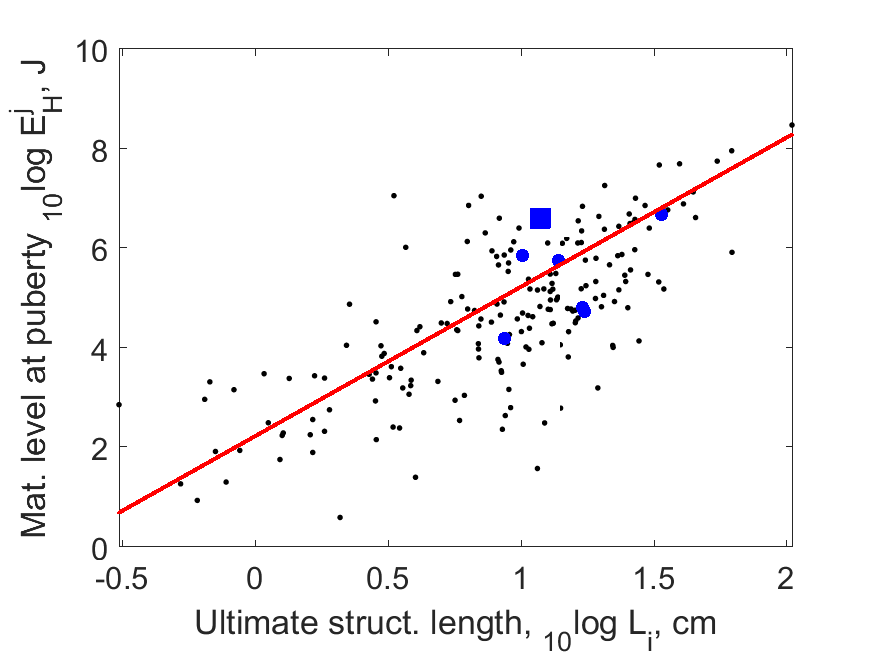
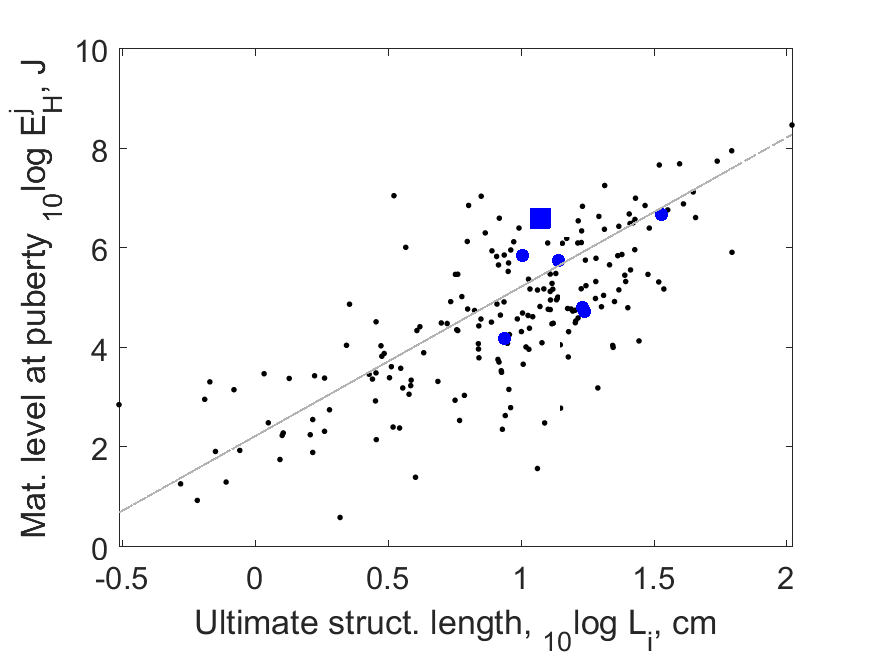
pars_comparisons_RBT
figures are generated with grey line

diff --git a/pars_comparisons_RBT.m b/pars_comparisons_RBT.m
@@ -45,7 +45,6 @@ plot(log10(Wd_i(selB)), log10(JT_Oi(selB)),   'bo', 'markersize',6,'markerfaceco
 plot(log10(Wd_i(selT)), log10(JT_Oi(selT)),'bs', 'markersize',12,'markerfacecolor','b')
 xlabel('Max ultimate dry weight, _{10}log Wd_i, g')
 ylabel('Max respiration, _{10}log J_{Oi} mol/d')
-% xlim([min(log10(p_M(selMollusca))) max(log10(p_M(selMollusca)))]  )
 set(gca, 'FontSize', 15, 'Box', 'on')
 saveas(gca,'figs/Wdi_JTOi.png')
 
@@ -54,20 +53,16 @@ saveas(gca,'figs/Wdi_JTOi.png')
 figure(); hold on
 plot(log10(Wd_i(selM)), log10(JT_Oi(selM)./ Wd_i(selM)), 'k.', 'markersize',8)
 plot(log10(Wd_i(selB)), log10(JT_Oi(selB)./ Wd_i(selB)), 'bo', 'markersize',6,'markerfacecolor','b')
-% plot(log10(Wd_i(selA)), log10(JT_Oi(selA)./ Wd_i(selA)),   'gs', 'markersize',12,'markerfacecolor','g')
 plot(log10(Wd_i(selT)), log10(JT_Oi(selT)./ Wd_i(selT)),'bs', 'markersize',12,'markerfacecolor','b')
 xlabel('ultimate dry weight, _{10}log Wd_i, g')
 ylabel('max spec. O_2, _{10}log J_{Oi} mol/g.d')
-% xlim([min(log10(p_M(selMollusca))) max(log10(p_M(selMollusca)))]  )
 set(gca, 'FontSize', 15, 'Box', 'on')
 saveas(gca,'figs/Wdi_MJTOi.png')
-
 
 %% Mean life span (at species-specific typical temp) as function of p_M (given at ref. temp.)
 figure(); hold on
 plot(log10(p_M(selM)), log10(a_m(selM)), 'k.', 'markersize',8)
 plot(log10(p_M(selB)), log10(a_m(selB)), 'bo', 'markersize',6,'markerfacecolor','b')
-% plot(log10(p_M(selA)), log10(a_m(selA)),   'gs', 'markersize',12,'markerfacecolor','g')
 plot(log10(p_M(selT)), log10(a_m(selT)),'bs', 'markersize',12,'markerfacecolor','b')
 xlabel('Max somat. maint. rate, _{10}log p_M, cm')
 ylabel('Mean life span, _{10}log a_m')
@@ -80,7 +75,6 @@ saveas(gca,'figs/pM_am.png')
 figure(); hold on
 plot(log10(p_M(selM)), log10(a_m(selM) .* c_T(selM)), 'k.', 'markersize',8)
 plot(log10(p_M(selB)), log10(a_m(selB).* c_T(selB)), 'bo', 'markersize',6,'markerfacecolor','b')
-% plot(log10(p_M(selA)), log10(a_m(selA) .* c_T(selA)),   'gs', 'markersize',12,'markerfacecolor','g')
 plot(log10(p_M(selT)), log10(a_m(selT).* c_T(selT)),'bs', 'markersize',12,'markerfacecolor','b')
 xlabel('Max somat. maint. rate, _{10}log p_M, cm')
 ylabel('Mean life span, _{10}log a_m')
@@ -88,12 +82,10 @@ xlim([min(log10(p_M(selM))) max(log10(p_M(selM)))]  )
 set(gca, 'FontSize', 15, 'Box', 'on')
 saveas(gca,'figs/pM_am_Tref.png')
 
-
 %% Weibull ageing acceleration as function of ultimate structural length
 figure(); hold on
 plot(log10(L_i(selM)), log10(h_a(selM)), 'k.', 'markersize',8)
 plot(log10(L_i(selB)), log10(h_a(selB)), 'bo', 'markersize',6,'markerfacecolor','b')
-% plot(log10(L_i(selA)), log10(h_a(selA)),   'gs', 'markersize',12,'markerfacecolor','g')
 plot(log10(L_i(selT)), log10(h_a(selT)),'bs', 'markersize',12,'markerfacecolor','b')
 xlabel('Ultimate struct. length, _{10}log L_i, cm')
 ylabel('Weibull ageing acceleration, _{10}log h_a')
@@ -105,9 +97,8 @@ saveas(gca,'figs/Li_ha.png')
 figure(); hold on
 plot(log10(L_i(selM)),log10(p_M(selM)), 'k.', 'markersize',8)
 plot(log10(L_i(selB)),log10(p_M(selB)),'bo', 'markersize',6,'markerfacecolor','b')
-% plot(log10(L_i(selA)), log10(p_M(selA)), 'gs', 'markersize',12,'markerfacecolor','g')
 plot(log10(L_i(selT)), log10(p_M(selT)),'bs', 'markersize',12,'markerfacecolor','b')
-plot([min(log10(L_i(selM))) max(log10(L_i(selM)))],[log10(18) log10(18)], 'r','linewidth',2)
+plot([min(log10(L_i(selM))) max(log10(L_i(selM)))],[log10(18) log10(18)], 'color',[0.7 0.7 0.7], 'linewidth',1, 'linestyle', '--')
 xlabel('Ultimate struct. length, _{10}log L_i, cm')
 ylabel('Somatic maint. _{10}log [p_M], J/cm^3/d')
 xlim([min(log10(L_i(selM))) max(log10(L_i(selM)))]  )
@@ -123,7 +114,7 @@ plot(log10(L_i(selB)), log10(v(selB).* s_M(selB)), 'bo', 'markersize',6,'markerf
 % plot(log10(L_i(selA)), log10(v(selA)),'gs', 'markersize',12)
 plot(log10(L_i(selT)), log10(v(selT).* s_M(selT)),'bs', 'markersize',12,'markerfacecolor','b')
 plot(log10(L_i(selT)), log10(v(selT)),'bs', 'markersize',12)
-plot([min(log10(L_i(selM))) max(log10(L_i(selM)))],[log10(0.02) log10(0.02)], 'r','linewidth',2)
+plot([min(log10(L_i(selM))) max(log10(L_i(selM)))],[log10(0.02) log10(0.02)], 'color',[0.7 0.7 0.7], 'linewidth',1, 'linestyle', '--')
 xlabel('Ultimate struct. length, _{10}log L_i, cm')
 ylabel('Energy conductance _{10}log v, cm/d')
 xlim([min(log10(L_i(selM))) max(log10(L_i(selM)))]  )
@@ -138,8 +129,8 @@ plot(log10(L_i(selB)), log10(p_Am(selB).* s_M(selB)), 'bo', 'markersize',6,'mark
 % plot(log10(L_i(selA)), log10(p_Am(selA)), 'gs', 'markersize',12)
 plot(log10(L_i(selT)), log10(p_Am(selT).* s_M(selT)), 'bs', 'markersize',12,'markerfacecolor','b')
 plot(log10(L_i(selT)), log10(p_Am(selT)), 'bs', 'markersize',12)
-% plot(log10(L_m(selMollusca)), log10(22.5 * L_m(selMollusca)), 'r','linewidth',2)
-plot(log10(L_i(selM)), log10(22.5 * L_i(selM)), 'r','linewidth',2)
+% plot(log10(L_m(selMollusca)), log10(22.5 * L_m(selMollusca)), 'color',[0.7 0.7 0.7], 'linewidth',1, 'linestyle', '--')
+plot(log10(L_i(selM)), log10(22.5 * L_i(selM)), 'color',[0.7 0.7 0.7], 'linewidth',1, 'linestyle', '--')
 xlim([min(log10(L_i(selM))) max(log10(L_i(selM)))]  )
 xlabel('Ultimate struct. length, _{10}log L_i, cm')
 ylabel('Max assim rate _{10}log {p_{Am}}, J/cm^2/d')
@@ -153,7 +144,7 @@ plot(log10(L_i(selM)), log10(E_Hb(selM)), 'k.', 'markersize',8)
 plot(log10(L_i(selB)), log10(E_Hb(selB)),'bo', 'markersize',6,'markerfacecolor','b')
 % plot(log10(L_i(selA)), log10(E_Hb(selA).* s_M(selA)), 'gs', 'markersize',12,'markerfacecolor','g')
 plot(log10(L_i(selT)), log10(E_Hb(selT).* s_M(selT)), 'bs', 'markersize',12,'markerfacecolor','b')
-plot(log10(L_i(selM)),log10(0.275 * L_i(selM).^3), 'r','linewidth',2)
+plot(log10(L_i(selM)),log10(0.275 * L_i(selM).^3), 'color',[0.7 0.7 0.7], 'linewidth',1, 'linestyle', '--')
 xlabel('Ultimate struct. length, _{10}log L_i, cm')
 ylabel('Mat. level at birth _{10}log E_H^b, J')
 xlim([min(log10(L_i(selM))) max(log10(L_i(selM)))]  )
@@ -167,7 +158,7 @@ plot(log10(L_i(selM)), log10(E_Hj(selM)), 'k.', 'markersize',8)
 plot(log10(L_i(selB)),log10(E_Hj(selB)), 'bo', 'markersize',6,'markerfacecolor','b')
 % plot(log10(L_i(selA)),log10(E_Hj(selA)), 'gs', 'markersize',12,'markerfacecolor','g')
 plot(log10(L_i(selT)),log10(E_Hj(selT)), 'bs', 'markersize',12,'markerfacecolor','b')
-plot(log10(L_i(selM)),log10(0.275 * L_i(selM).^3), 'r','linewidth',2)
+plot(log10(L_i(selM)),log10(0.275 * L_i(selM).^3), 'color',[0.7 0.7 0.7], 'linewidth',1, 'linestyle', '--')
 xlabel('Ultimate struct. length, _{10}log L_i, cm')
 ylabel('Mat. level at metam. _{10}log E_H^j, J')
 xlim([min(log10(L_i(selM))) max(log10(L_i(selM)))]  )
@@ -180,7 +171,7 @@ plot(log10(L_i(selM)), log10(E_Hp(selM)), 'k.', 'markersize', 8)
 plot(log10(L_i(selB)),log10(E_Hp(selB)), 'bo', 'markersize',6,'markerfacecolor','b')
 % plot(log10(L_i(selA)),log10(E_Hp(selA)), 'gs', 'markersize',12,'markerfacecolor','g')
 plot(log10(L_i(selT)),log10(E_Hp(selT)), 'bs', 'markersize',12,'markerfacecolor','b')
-plot(log10(L_i(selM)),log10(166 * L_i(selM).^3), 'r','linewidth',2)
+plot(log10(L_i(selM)),log10(166 * L_i(selM).^3), 'color',[0.7 0.7 0.7], 'linewidth',1, 'linestyle', '--')
 xlabel('Ultimate struct. length, _{10}log L_i, cm')
 ylabel('Mat. level at puberty _{10}log E_H^j, J')
 xlim([min(log10(L_i(selM))) max(log10(L_i(selM)))]  )
@@ -195,7 +186,7 @@ plot(log10(L_i(selM)), log10(E_m(selM)), 'k.', 'markersize', 8)
 plot(log10(L_i(selB)), log10(E_m(selB)), 'bo', 'markersize',6,'markerfacecolor','b')
 % plot(log10(L_i(selA)), log10(E_m(selA)), 'gs', 'markersize',12,'markerfacecolor','g')
 plot(log10(L_i(selT)), log10(E_m(selT)), 'bs', 'markersize',12,'markerfacecolor','b')
-plot(log10(L_i(selM)), log10(22.5 * L_i(selM)/ 0.02), 'r','linewidth',2)
+plot(log10(L_i(selM)), log10(22.5 * L_i(selM)/ 0.02), 'color',[0.7 0.7 0.7], 'linewidth',1, 'linestyle', '--')
 xlabel('Ultimate struct. length, _{10}log L_i, cm')
 ylabel('Max. res. dens. _{10}log [E_m], J/cm^3')
 xlim([min(log10(L_i(selM))) max(log10(L_i(selM)))]  )
@@ -211,7 +202,7 @@ pMsurv_B = surv(p_M(selB));
 
 figure();hold on
 plot(log10(xsurv),ysurv, 'b','linewidth',2)
-plot(log10(pMsurv_B(:,1)),pMsurv_B(:,2), 'r','linewidth',2)
+plot(log10(pMsurv_B(:,1)),pMsurv_B(:,2), 'color',[0.7 0.7 0.7], 'linewidth',1, 'linestyle', '--')
 % plot([log10(p_M(selA)) log10(p_M(selA))],[0 1], 'k--')
 plot([-0.5 2 ],[0.5 0.5], 'k')
 xlabel('log_{10} [p_M]')
@@ -231,7 +222,7 @@ vsurv_adB = surv(v(selB) .* s_M(selB)); % survival and post-metam values for biv
 figure();hold on
 plot(log10(xsurv),ysurv, 'b','linewidth',2)
 plot(log10(vsurv_adM(:,1)),vsurv_adM(:,2), 'b--','linewidth',2) % post-metam values
-plot(log10(vsurv_B(:,1)),vsurv_B(:,2), 'r','linewidth',2)
+plot(log10(vsurv_B(:,1)),vsurv_B(:,2), 'color',[0.7 0.7 0.7], 'linewidth',1, 'linestyle', '--')
 plot(log10(vsurv_adB(:,1)),vsurv_adB(:,2), 'r--','linewidth',2) % post-metam values
 
 % plot([log10(v(selA)) log10(v(selA))],[0 1], 'k--')
@@ -249,7 +240,7 @@ kapsurv_B = surv(kap(selB));
 
 figure();hold on
 plot(xsurv,ysurv, 'b','linewidth',2)
-plot(kapsurv_B(:,1),kapsurv_B(:,2), 'r','linewidth',2)
+plot(kapsurv_B(:,1),kapsurv_B(:,2), 'color',[0.7 0.7 0.7], 'linewidth',1, 'linestyle', '--')
 % plot([kap(selA) kap(selA)],[0 1], 'k--')
 plot([0 1 ],[0.5 0.5], 'k')
 xlabel('kappa, -')
